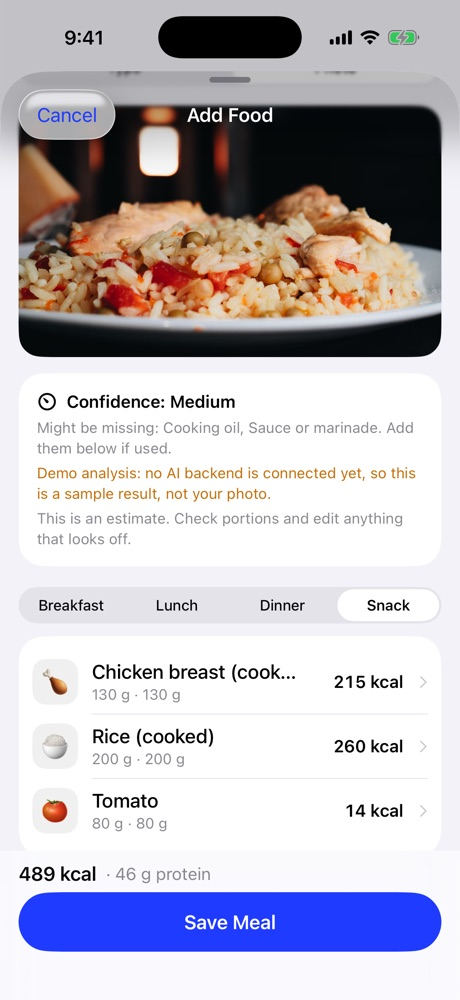
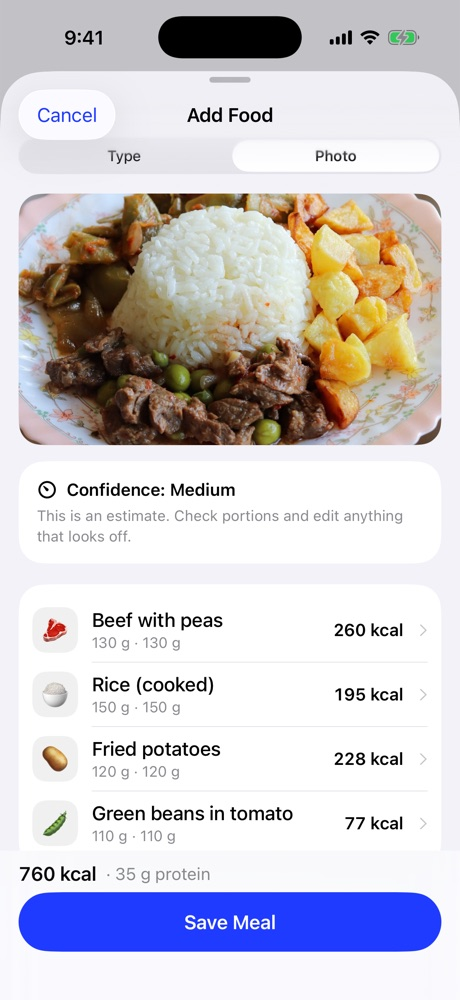
New meal photo screenshot (beef, rice, potatoes, green beans)

diff --git a/index.html b/index.html
@@ -79,7 +79,7 @@
         <p>Take a photo <i class="tag">Premium</i> and Joul estimates the calories and protein for each food on the plate, with portions you can adjust. Prefer words? Type “2 eggs, toast and an apple” and foods, emoji and portions appear. Nothing is saved until you say so.</p>
         <a class="pill pill-dark" href="#waitlist">Get early access</a>
       </div>
-      <div class="panel"><figure class="iphone"><img src="assets/screens/meal-photo.jpg" alt="Photo logging: a plate of chicken, rice and tomato is recognised and broken into chicken 215 kcal, rice 260 kcal and tomato 14 kcal, 489 kcal in total" loading="lazy" width="1000" height="2174"></figure></div>
+      <div class="panel"><figure class="iphone"><img src="assets/screens/meal-photo.jpg?v=6" alt="Photo logging: a plate of beef with peas, rice, fried potatoes and green beans is broken into beef with peas 260 kcal, rice 195 kcal, fried potatoes 228 kcal and green beans 77 kcal, 760 kcal in total" loading="lazy" width="1000" height="2174"></figure></div>
     </article>
 
     <article class="feature reveal">
